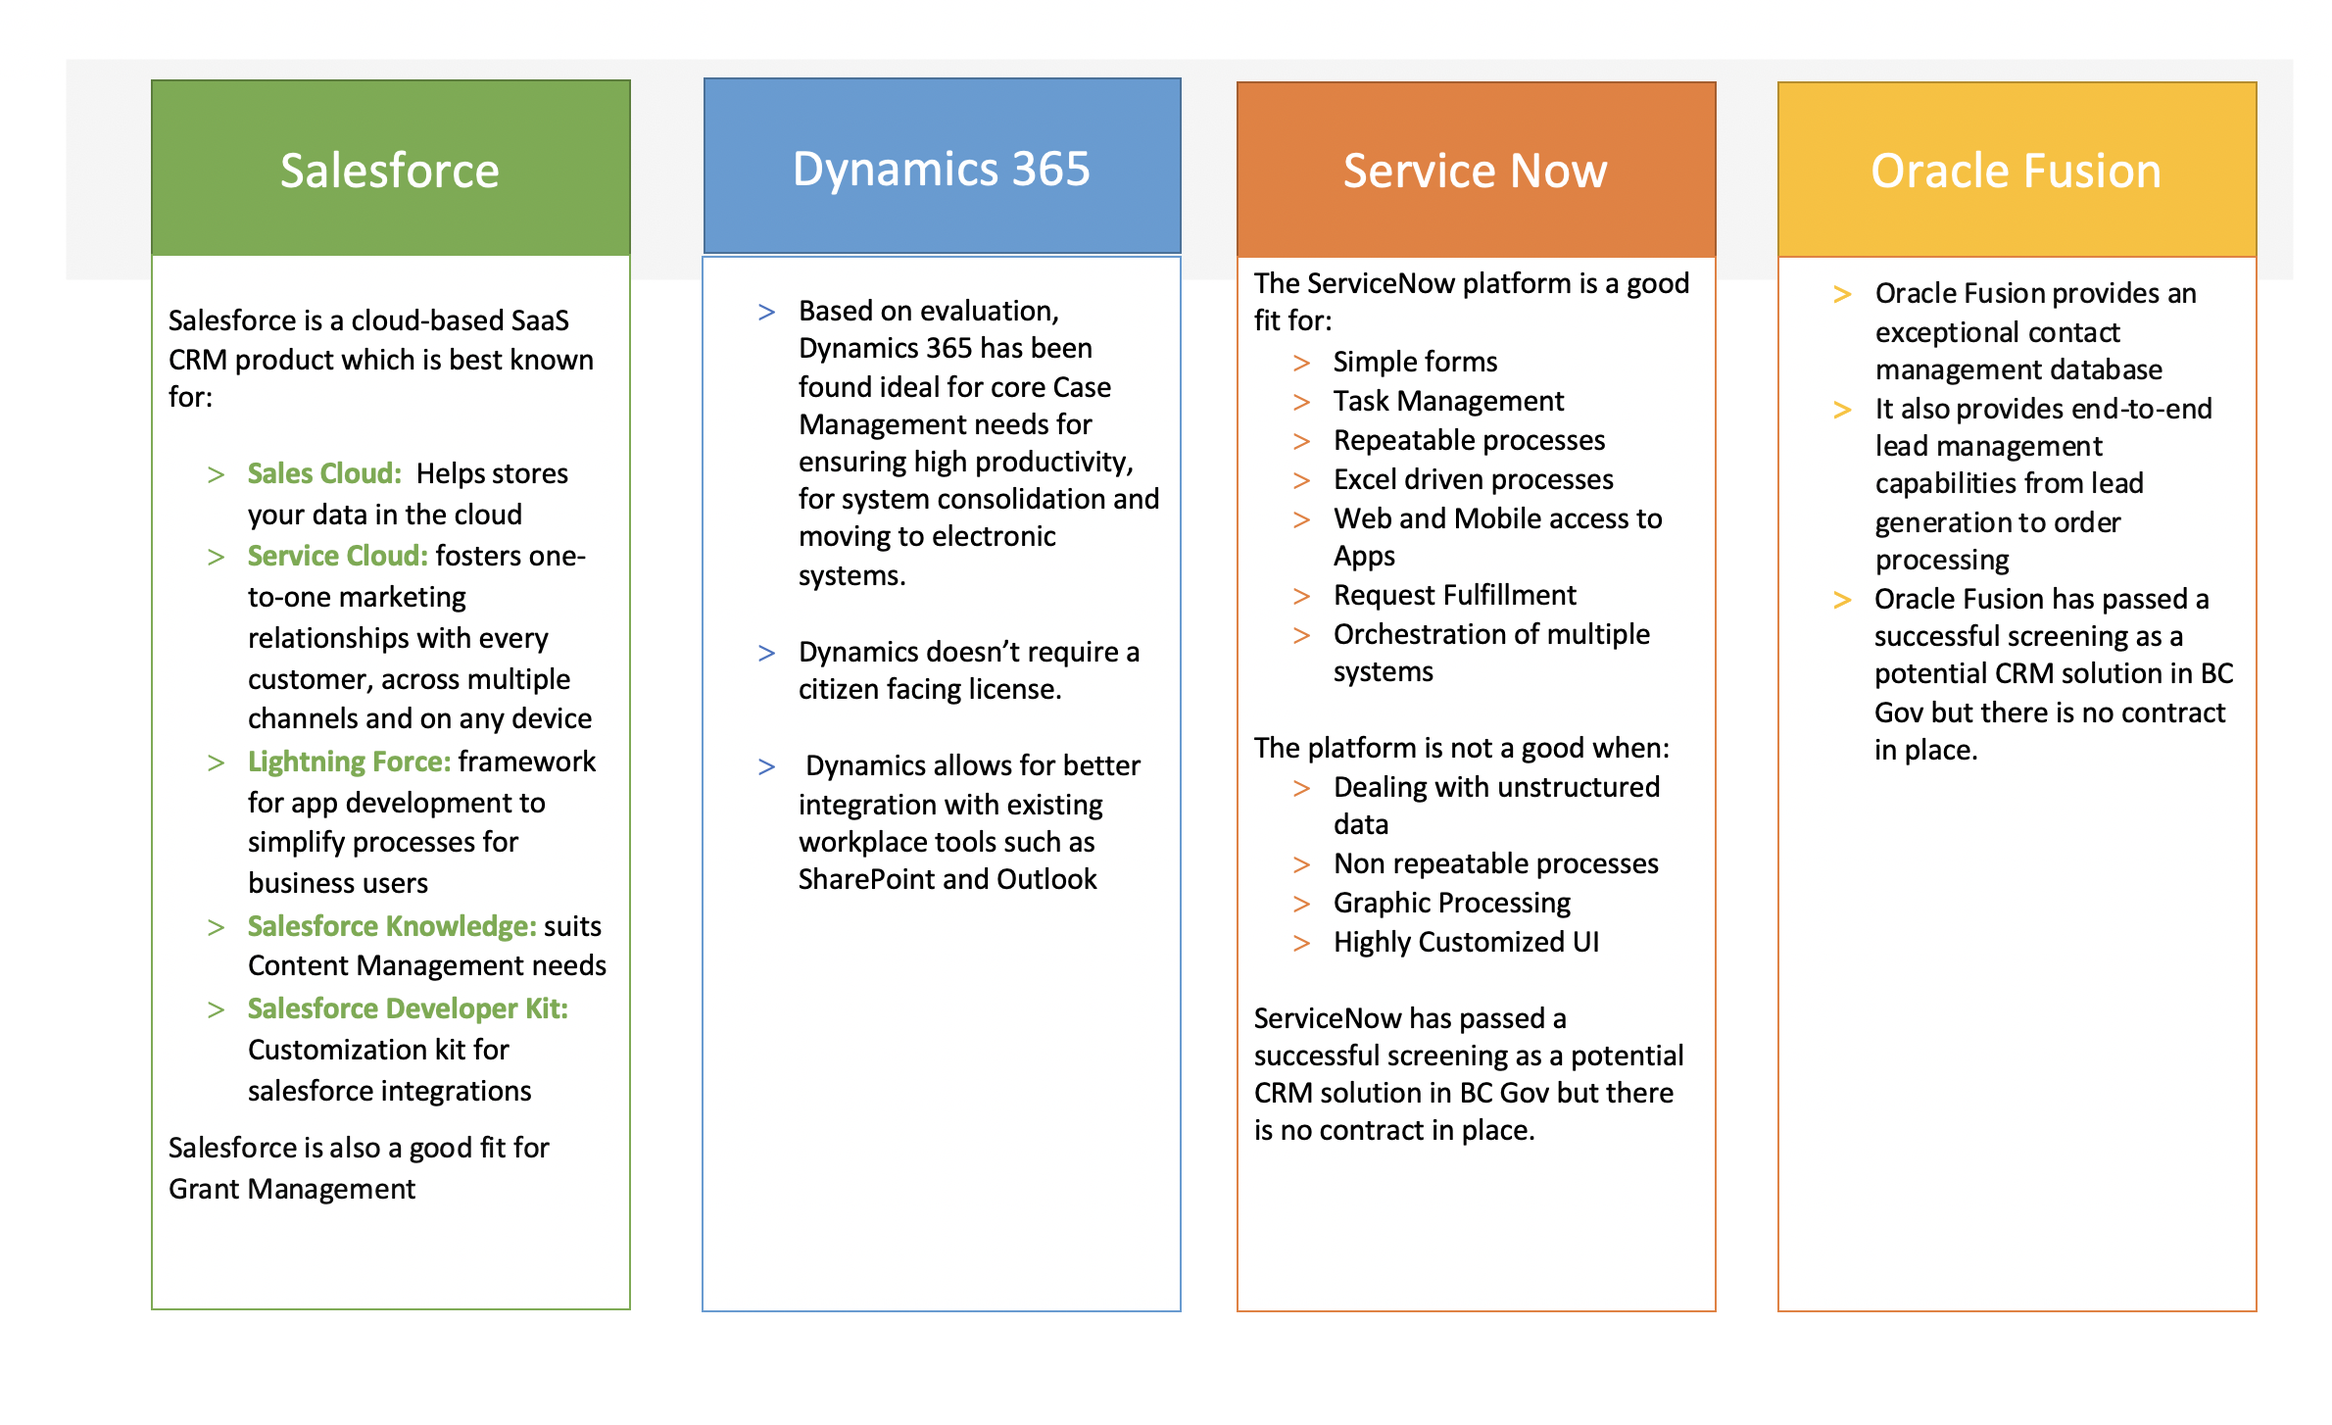
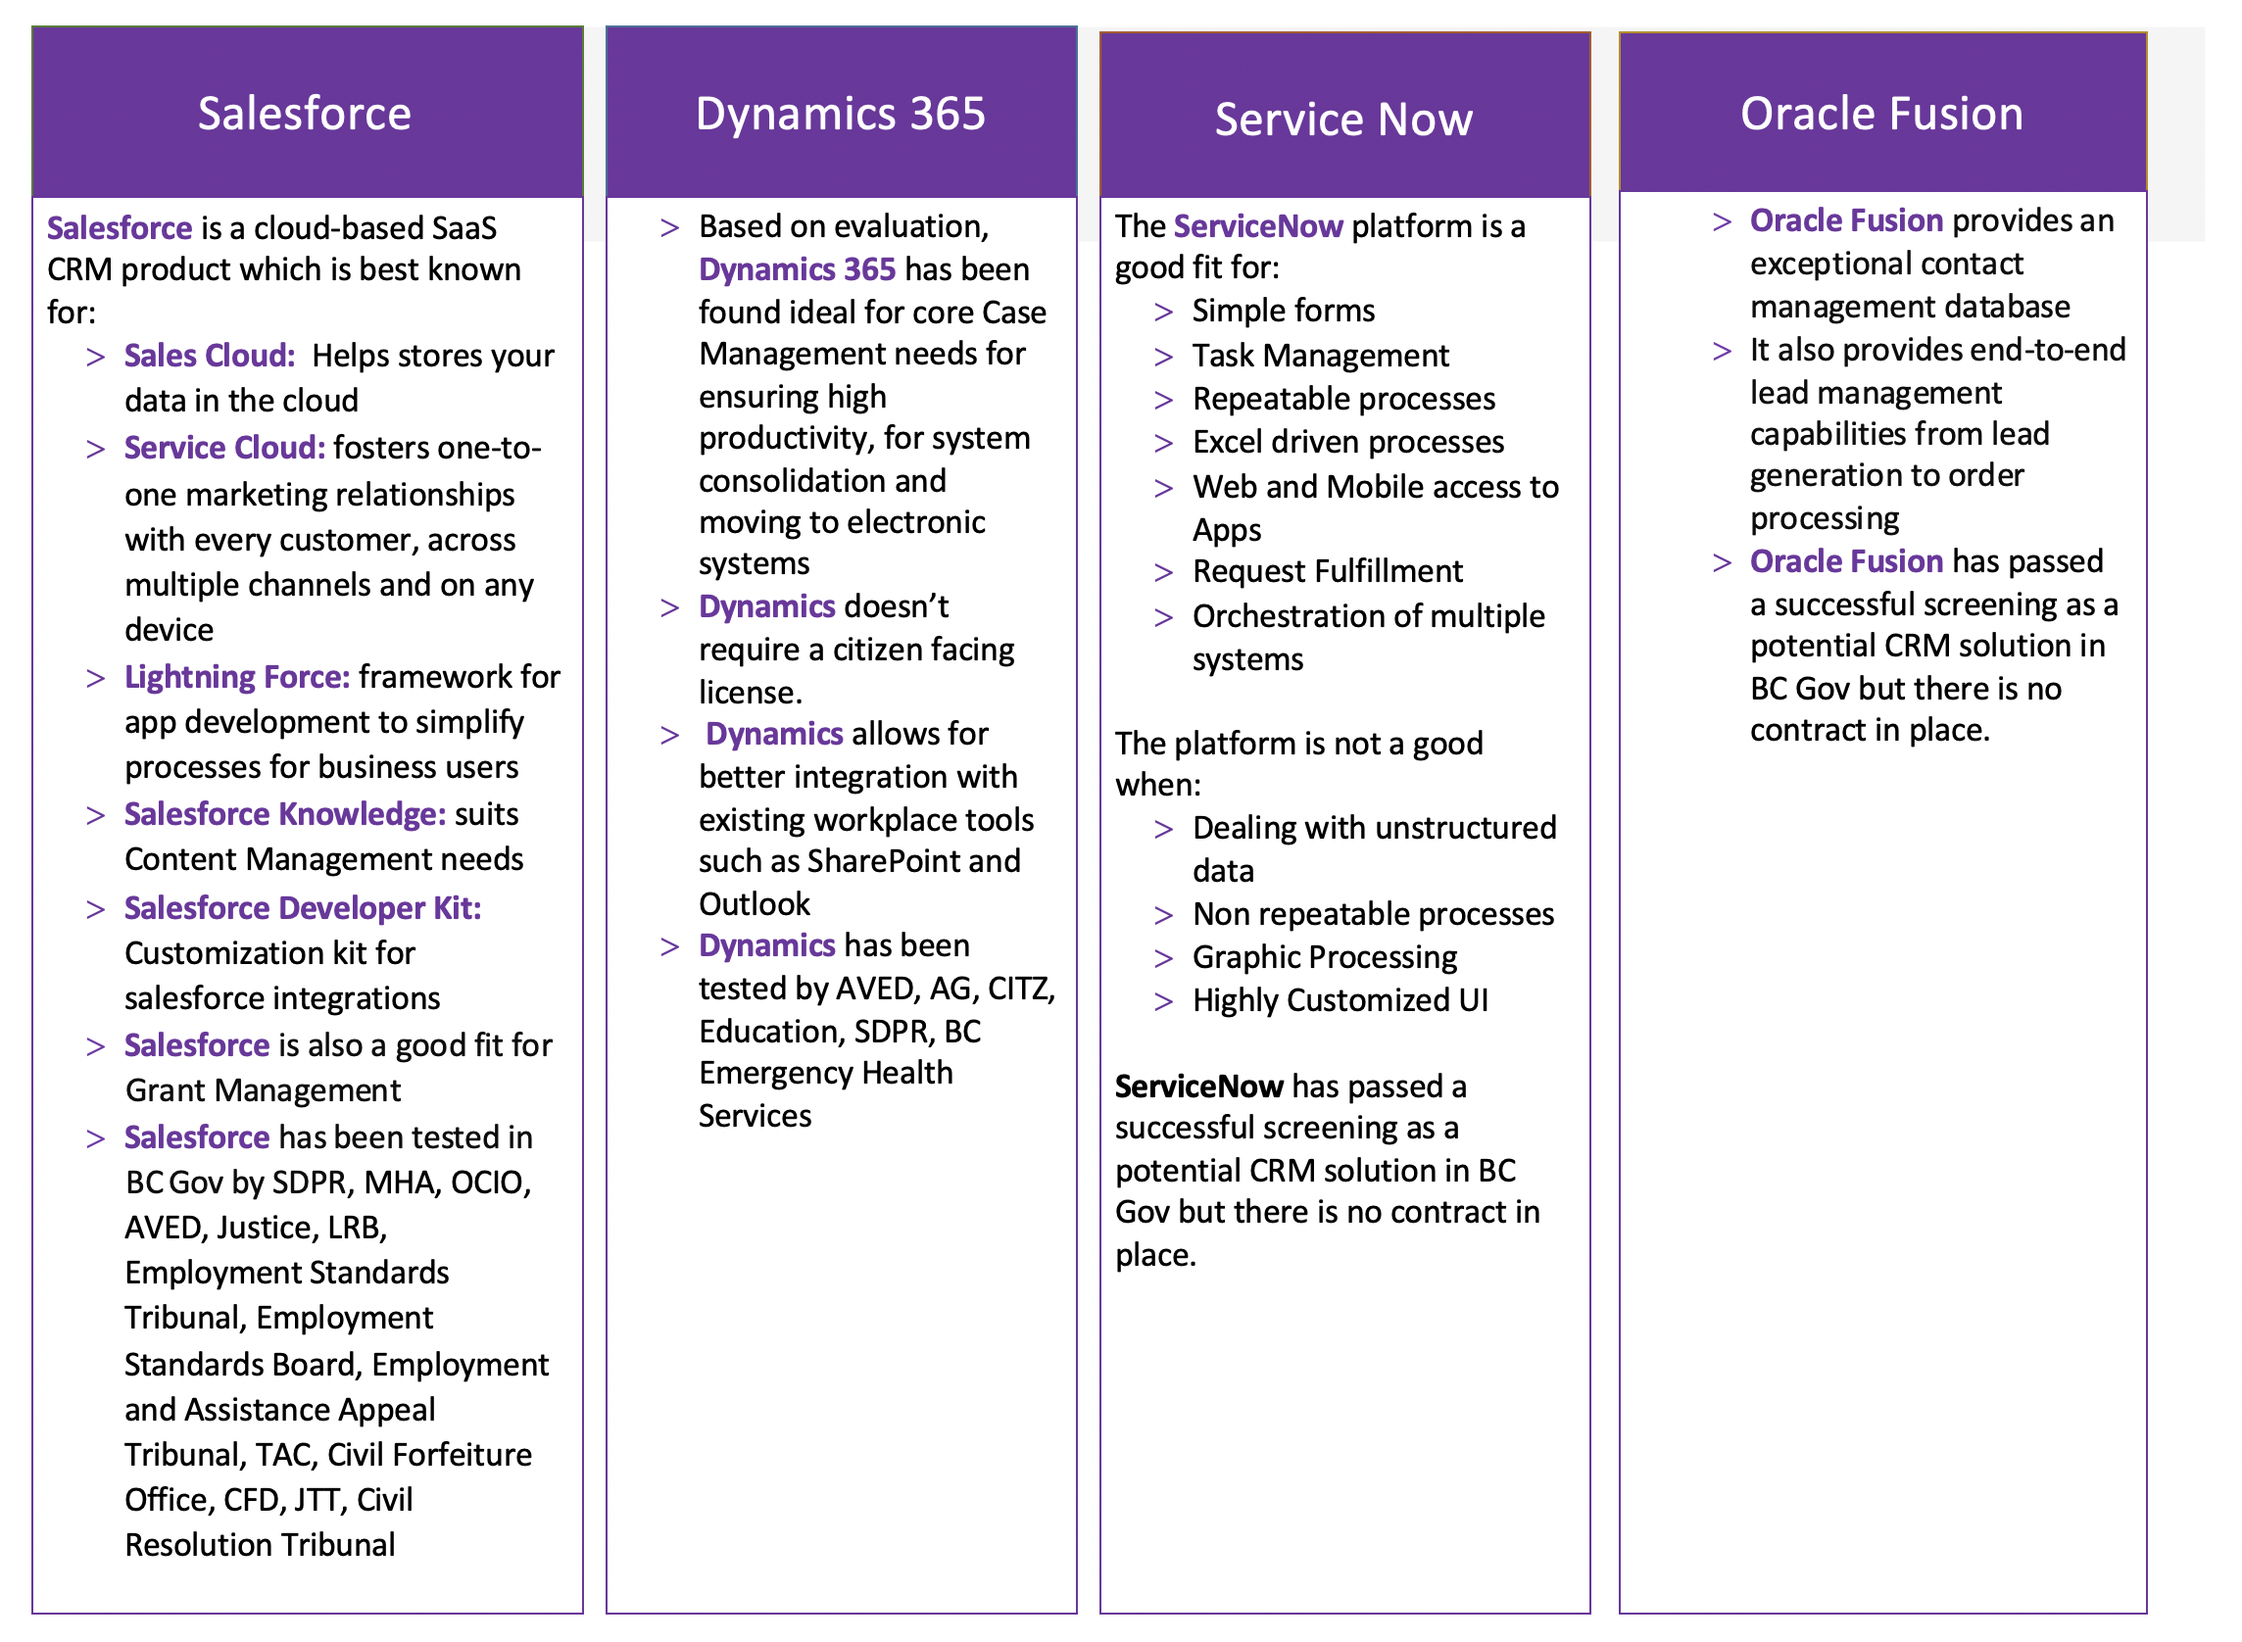
test

Changed region(s): [[0.0, 0.0, 0.993, 0.9594]]

diff --git a/docs/_sass/overrides.scss b/docs/_sass/overrides.scss
@@ -24,3 +24,5 @@ blockquote {
   border-left: 5px solid #ccc;
   margin-left: 0px;
 }
+
+img[alt=serverless] { width: 2000px; height: 2000px;}

diff --git a/docs/C.MordenizationPlaybook/Business Applications/CustomerRelationshipManagement.md b/docs/C.MordenizationPlaybook/Business Applications/CustomerRelationshipManagement.md
@@ -61,25 +61,12 @@ Oracle Fusion
 • Successful Screening 
 • No Contract, PIA, or STRA
 
-![](assets/images/Qualified-CRM.png)
 
 ### CRM Adoption
 
-Salesforce
 
-• Process tested: SDPR, MHA, OCIO, AVED, Justice, LRB, Employment Standards Tribunal, Employment Standards Board, Employment and Assistance Appeal Tribunal, TAC, Civil Forfeiture Office, CFD, JTT, Civil Resolution Tribunal
+![](assets/images/Qualified-CRM.png)
 
-Microsoft Dynamics 365
-
-• Process tested: AVED, AG, CITZ, Education, SDPR, BC Emergency Health Services
-
-ServiceNow
-
-• Awaiting first initiative
-
-Oracle Fusion
-
-• Awaiting first initiative
 
 ## Other CRM options
 
@@ -119,9 +106,21 @@ HubSpot CRM was started in 2004 and provides tools that can be used by small to 
       records
 
 
-
 ### Serverless Options
 
+  Deploying a CRM solution on Cloud as opposed to hosting one on prem has the following benefits:
+
+  1. There would be no underlying hardware or infrastructure or maintain
+  2. Ensure high availability and resilience
+  3. There would be tighter integrations with other cloud products
+  4. It would be easier and faster to implement a CRM solution on cloud
+  5. The CRM applications would be highly scalable on cloud
+
+  In order to further reduce costs, you can make use of Functions as a Service (FaaS) to execute tasks which happen less frequently in order to save cloud resources. 
+  
+  For example, Approvals and Consents on Applications might not happen very frequently. It would be best to trigger these operations as serverless functions when these events are triggered. 
+
+  ![](assets/images/example-serverless.png)
 
 ## Implementation Approaches
 ## On Prem
